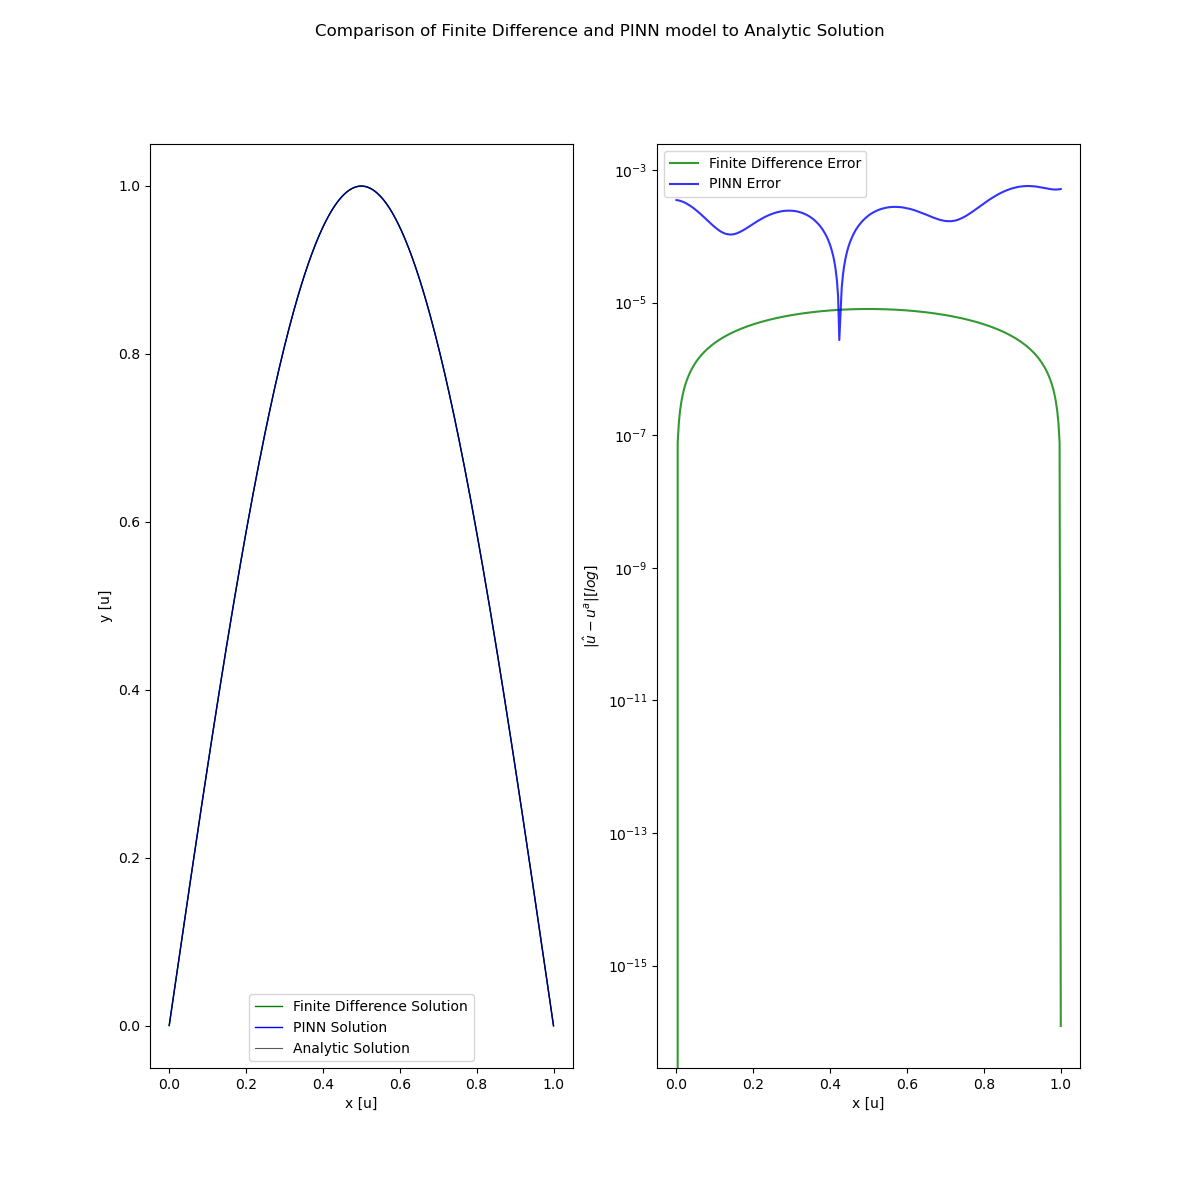
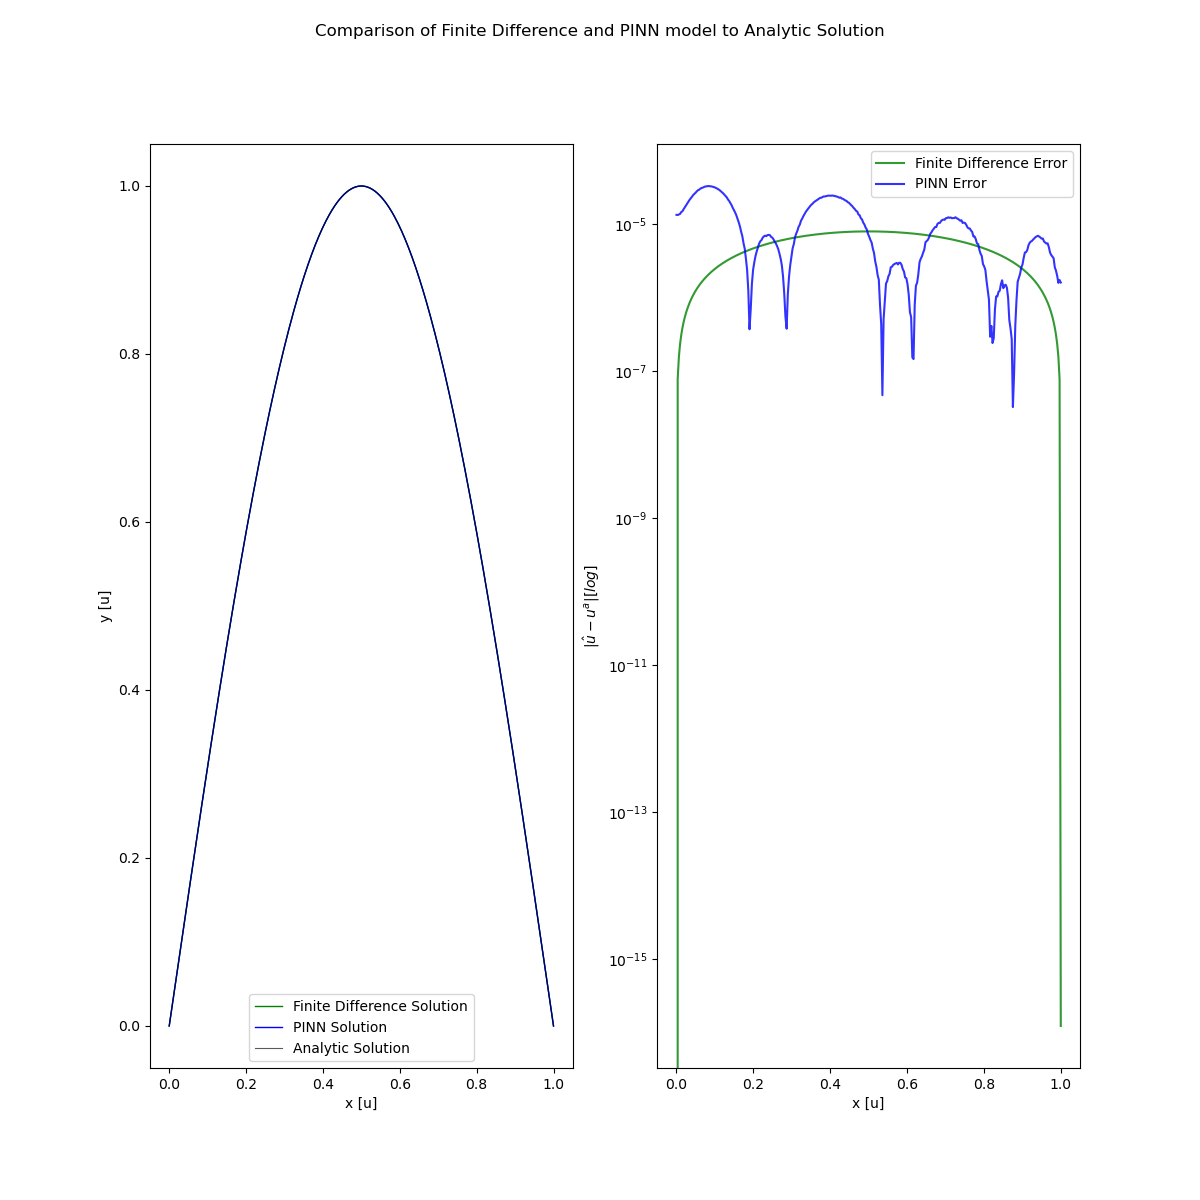
Isotropic Heat Steady State given by DeepXDE PINN and 2nd Order Crank-Nicolson Scheme.

Changed region(s): [[0.555, 0.1233, 0.8942, 0.3083], [0.8017, 0.2158, 0.8942, 0.3392], [0.555, 0.2775, 0.5858, 0.37]]

diff --git a/isotropic/isotropic.py b/isotropic/isotropic.py
@@ -1,0 +1,306 @@
+#/usr/bin/env python 
+
+import numpy as np 
+import matplotlib.pyplot as plt 
+
+import deepxde as dde 
+import scipy
+import imageio.v2 as imageio
+
+EPS = 1e-4 
+
+class Isotropic: 
+
+    @staticmethod
+    def pde_functor(alpha): 
+        def pde(x, u):
+            ut = dde.grad.jacobian(u, x, i=0, j=3)
+            uxx = dde.grad.hessian(u, x, component=0, i=0, j=0)
+            uyy = dde.grad.hessian(u, x, component=0, i=1, j=1)
+            uzz = dde.grad.hessian(u, x, component=0, i=2, j=2)
+            return ut - alpha * (uxx + uyy + uzz)  
+        return pde 
+
+    @staticmethod 
+    def boundary_value(x): 
+        return np.zeros((len(x), 1))
+
+    @staticmethod 
+    def initial_value(x): 
+        return np.sin(x[:, 0:1]) * np.sin(x[:, 1:2]) * np.sin(x[:, 2:3]) 
+
+
+    def __init__(self, layers, interior_nodes, pinn_nodes, alpha, load: str | None =None, dt=1e-3, opt="adam", lr=1e-3, metrics=["l2 relative error"]): 
+        self.interior_nodes = interior_nodes
+        self.pinn_nodes     = pinn_nodes 
+        self.alpha = alpha 
+        self.dt = dt
+
+        if len(self.pinn_nodes) != 3: 
+            raise ValueError("incorrect shape for PINN interior, boundary, and initial node counts")
+        # This needs to be a list of these 
+        self.numeric_solution = None
+
+        # Initialize PINN, Guess tfinal = 10.0 
+        geom       = dde.geometry.Cuboid([0, 0, 0], [np.pi, np.pi, np.pi])
+        timedomain = dde.geometry.TimeDomain(0, 10)
+        geomtime   = dde.geometry.GeometryXTime(geom, timedomain)  
+        initials   = dde.IC(
+            geomtime, 
+            self.initial_value, 
+            lambda x, on_initial: on_initial, 
+            component=0
+        ) 
+        boundaries = dde.DirichletBC(
+            geomtime, 
+            self.boundary_value, 
+            lambda x, on_boundary: on_boundary, 
+            component=0
+        )
+
+        def exact(X): 
+            x, y, z, t = X[:, 0:1], X[:, 1:2], X[:, 2:3], X[:, 3:4]
+            return self.analytic(t, x, y, z)
+
+        pde = Isotropic.pde_functor(self.alpha)
+        data = dde.data.TimePDE(
+            geomtime, 
+            pde, 
+            [boundaries, initials], 
+            num_domain=self.pinn_nodes[0], 
+            num_boundary=self.pinn_nodes[1], 
+            num_initial=self.pinn_nodes[2],
+            solution=exact
+        )
+
+        # Apparently the LSP shouldn't be throwing an error at this? 
+        network = dde.nn.pytorch.FNN(layers, "tanh", "Glorot normal")
+        self.pinn = dde.Model(data, network)
+        self.pinn.compile(opt, lr=lr, metrics=metrics)
+
+        if load is not None: 
+            self.pinn.restore(load, device="cuda:0", verbose=1)
+
+    def train(self, epochs=2500, prefix="iso"):
+        losshistory, train_state = self.pinn.train(iterations=epochs)
+        dde.saveplot(losshistory, train_state, issave=True, isplot=True)
+
+        path = self.pinn.save(prefix, verbose=1)
+        print(f"saved model to {path}")
+        return path
+
+
+    def analytic(self, t, x, y, z):
+        return np.exp(-3.0 * self.alpha * t) * np.sin(x) * np.sin(y) * np.sin(z) 
+
+    
+    def mask_diagonals_(self, N, M, r, main): 
+        """
+        M is N**3, N is the number of interior nodes along one axis, all three axis
+        have the same number of nodes. 
+        main is the main diagonal which gets packaged into the list 
+        """
+        rx, ry, rz = r
+
+        xright = np.zeros(M, dtype=np.float64)
+        xleft  = np.zeros(M, dtype=np.float64)
+        yup   = np.zeros(M, dtype=np.float64)
+        ydown = np.zeros(M, dtype=np.float64)
+        zup   = np.zeros(M, dtype=np.float64)
+        zdown = np.zeros(M, dtype=np.float64) 
+
+        idx = np.arange(M)
+        i = idx % N 
+
+        mask_right = (i < N - 1)
+        mask_left  = (i > 0)
+
+        
+        xright[mask_right] = rx 
+        xleft[mask_left]   = rx
+
+        j = (idx // N) % N 
+
+        mask_up_y   = (j < N - 1)
+        mask_down_y = (j > 0)
+
+
+        yup[mask_up_y]     = ry 
+        ydown[mask_down_y] = ry 
+
+        k = idx // (N**2)
+
+        mask_up_z   = (k < N - 1)
+        mask_down_z = (k > 0)
+
+
+        zup[mask_up_z]     = rz 
+        zdown[mask_down_z] = rz
+
+
+        return [main, xright, xleft, yup, ydown, zup, zdown]
+
+
+    def crank_step_(self, u, B, solve_callback, bn=None): 
+        #!! This is a sparse matrix multiplication, efficient
+        b = B @ u 
+
+        if bn is not None:
+            b += bn 
+
+        return solve_callback(b)
+        
+
+    def crank(self):
+        N = self.interior_nodes
+        M = N**3
+
+        dz = dy = dx = np.pi / (N + 1)
+        rx = 1.0 / (dx**2) 
+        ry = 1.0 / (dy**2)
+        rz = 1.0 / (dz**2)
+
+        # Creating main system matrices as 7 band sparse matrix 
+        main_diag = -2.0 * (rx + ry + rz) * np.ones(M, dtype=np.float64)
+        diagonals = self.mask_diagonals_(N, M, (rx, ry, rz), main_diag) 
+        offsets   = [0, 1, -1, N, -N, N**2, -N**2]
+
+        L = scipy.sparse.diags(diagonals, offsets, shape=(M, M), format="csc")
+        I = scipy.sparse.eye(M, format="csc")
+        
+        k = 0.5 * self.alpha * self.dt 
+        A = I - k * L 
+        B = I + k * L 
+
+        solve_callback = scipy.sparse.linalg.factorized(A)
+        
+        # interior collocation points 
+        xi = np.linspace(dx, np.pi - dx, N) 
+        yi = np.linspace(dy, np.pi - dy, N)
+        zi = np.linspace(dz, np.pi - dz, N)
+        X, Y, Z = np.meshgrid(xi, yi, zi, indexing="ij")
+
+        ics   = self.analytic(0.0, X, Y, Z).reshape(M) 
+        uprev = ics
+        u     = self.crank_step_(uprev, B, solve_callback) 
+        u_norm_prev = np.linalg.norm(uprev, ord=2)
+        u_norm = np.linalg.norm(u, ord=2)
+
+        u_hist = [ics, u]
+
+        while np.abs(u_norm - u_norm_prev) > EPS: 
+            u_norm_prev = u_norm 
+            uprev = u 
+            
+            u = self.crank_step_(u, B, solve_callback)
+            u_norm = np.linalg.norm(u, ord=2)
+            u_hist.append(u)
+        print(f"Computed {len(u_hist)} steps")
+
+        self.numeric_solution = np.array(u_hist, dtype=np.float64) 
+
+    def plot(self, skip=10):
+        if self.numeric_solution is None:
+            raise RuntimeError("must call Isotropic.crank() prior to plotting")
+
+        N = self.interior_nodes
+        z_index = N // 2
+
+        # numeric_solution has shape (n_steps, N**3)
+        n_steps = self.numeric_solution.shape[0]
+        u_hist_3d = self.numeric_solution.reshape(n_steps, N, N, N)
+        midplane_cn = u_hist_3d[:, :, :, z_index]  # (n_steps, N, N)
+
+        # Fixed color scale for the entire animation so the decay is visible
+        vmin, vmax = 0.0, 1.0
+
+        # Grid for PINN evaluation
+        xs = np.linspace(0.0, np.pi, N + 2)
+        ys = np.linspace(0.0, np.pi, N + 2)
+        X, Y = np.meshgrid(xs, ys, indexing="ij")
+        Z = np.full_like(X, np.pi / 2.0)
+
+        frames = []
+
+        for n in range(0, n_steps, skip):
+            t = n * self.dt
+
+            # CN slice
+            u_cn = midplane_cn[n]  # shape (N, N)
+
+            # PINN slice at the same time
+            T = np.full_like(X, t)
+            X_in = np.stack(
+                [X.ravel(), Y.ravel(), Z.ravel(), T.ravel()],
+                axis=1,
+            )
+            u_pinn = np.asarray(self.pinn.predict(X_in)[:, 0]).reshape(N + 2, N + 2)
+
+            fig, (ax_cn, ax_pinn) = plt.subplots(
+                1, 2, figsize=(8, 4), dpi=120, constrained_layout=True
+            )
+
+            im_cn = ax_cn.imshow(
+                u_cn.T,
+                origin="lower",
+                extent=(0, np.pi, 0, np.pi),
+                vmin=vmin,
+                vmax=vmax,
+                interpolation="bilinear",
+                aspect="equal",
+            )
+            ax_cn.set_title(f"CN  t = {t:.4f}")
+            ax_cn.set_xlabel("x")
+            ax_cn.set_ylabel("y")
+
+            im_pinn = ax_pinn.imshow(
+                u_pinn.T,
+                origin="lower",
+                extent=(0, np.pi, 0, np.pi),
+                vmin=vmin,
+                vmax=vmax,
+                interpolation="bilinear",
+                aspect="equal",
+            )
+            ax_pinn.set_title(f"PINN t = {t:.4f}")
+            ax_pinn.set_xlabel("x")
+            ax_pinn.set_yticklabels([])
+
+            # One shared colorbar for both plots
+            cbar = fig.colorbar(im_pinn, ax=[ax_cn, ax_pinn], fraction=0.046, pad=0.04)
+            cbar.set_label(r"$u(x, y, z=\pi/2, t)$")
+
+            fig.canvas.draw()
+
+            buf = np.asarray(fig.canvas.buffer_rgba())  # (h, w, 4)
+            frame = buf[:, :, :3].copy()                # drop alpha
+            frames.append(frame) 
+
+            plt.close(fig)
+
+        # Single GIF with CN vs PINN evolution on the midplane
+        imageio.mimsave("cn_pinn_midplane.gif", frames, fps=10)
+
+        
+def main(): 
+    alpha  = 1.0 
+    dt = 1e-3 
+    layers = [4] + [64] * 3 + [1]
+    model  = Isotropic(
+        layers=layers,
+        interior_nodes=30,
+        pinn_nodes=[16384, 1024, 1024],
+        alpha=alpha,
+        dt=dt,
+        load="iso-2500.pt"
+    )
+    print("Starting PINN Model Training")
+    model.train()
+    print("Starting Crank-Nicolson Scheme")
+    model.crank() 
+    print("Starting Animated Plots")
+    model.plot()
+
+
+if __name__ == "__main__": 
+    main() 

diff --git a/simple/steadyheat.py b/simple/steadyheat.py
@@ -147,7 +147,7 @@ class SteadyHeat:
 def main():
     model = SteadyHeat(320, 1, (32, 32))
     model.finite_difference() 
-    model.pinn_eval(1e-3, 1000)
+    model.pinn_eval(1e-3, 5000)
     model.plot()
     model.save("pinn.keras") 
 

diff --git a/README.md b/README.md
@@ -10,3 +10,20 @@ $u''(x)=-\pi^2\sin(\pi x), x\in(0,1)$, boundary conditions, $u(0) = 0$ and $u(1)
 
 We can solve using a finite difference scheme with truncation error $\sim O(h^2)$ to solve the system, as well as by training a PINN using the ode. We can see a comparison of the two in the given plot below,  
 ![Finite Difference vs. PINN](./simple/comparison.png)
+
+### Isotropic Heat Equation 3D 
+
+$u_t = \alpha \nabla^2 u$, for $(x,y,z)\in(0,\pi)^3, t>0$ 
+
+Given the Dirichlet boundary conditions 
+
+$u(t,x,y,z) = 0$ for $(x,y,z) \in \delta(0,\pi)^3, t>0$
+
+For the second order Crank-Nicolson scheme, we have a main diagonal with entries $1 + r_x + r_y + r_z$ where $r_x = \frac{\alpha\Delta t}{\Delta x^2}, r_y = \frac{\alpha\Delta t}{\Delta y^2}$, and $r_z = \frac{\alpha\Delta t}{\Delta z^2}. 
+
+Off diagonals in the $x$ direction, $-r_x/2$, and likewise for the $y$ and $z$ directions. The RHS collapses to the following,
+
+b^n_{i,j,k} = (1-r_x-r_y-r_z)u^n_{i,j,k} + \frac{r_x}2 (u^n_{i+1,j,k} + u^n_{i-1,j,k}) + \frac{r_y}2 (u^n_{i,j+1,k} + u^n_{i,j-1,k}) - \frac{r_z}2 (u^n_{i,j,k+1} + u^n_{i,j,k-1})
+
+
+Which for boundaries terms, $u$ evaluates to zero given by the boundary conditions. 
